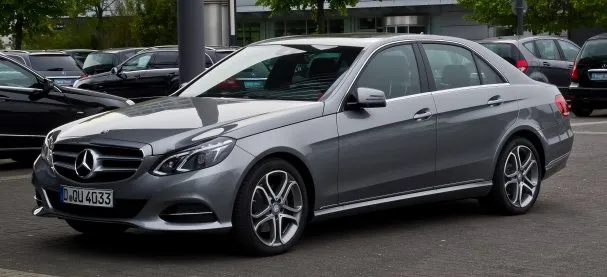
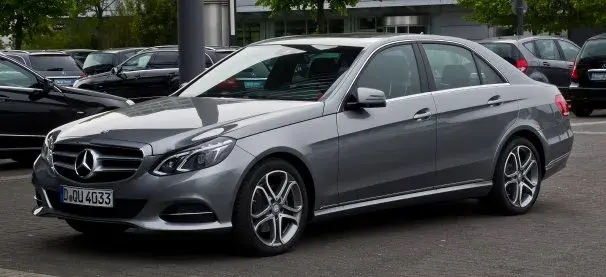
246

diff --git a/pic/ja_mb_img_e.html b/pic/ja_mb_img_e.html
@@ -773,7 +773,7 @@
 							</div>
 						</div>
 						<h5>Avantgarde</h5>
-						<a href="full/e/w212_f2_ava.jpg"><img loading="lazy" src="style/e/w212_f2_ava.webp" alt="メルセデス,W212,Eクラス,Avantgarde,フロント" width="607" height="277"></a>
+						<a href="full/e/w212_f2_ava.jpg"><img loading="lazy" src="style/e/w212_f2_ava.webp" alt="メルセデス,W212,Eクラス,Avantgarde,フロント" width="606" height="277"></a>
 						<a href="full/e/w212_r2_ava.jpg"><img loading="lazy" src="style/e/w212_r2_ava.webp" alt="メルセデス,W212,Eクラス,Avantgarde,リヤ" width="599" height="277"></a><br>
 						<a href="full/e/w212_d2_ava.jpg"><img loading="lazy" src="style/e/w212_d2_ava.webp" alt="メルセデス,W212,Eクラス,Avantgarde,ダッシュボード" width="1210" height="756"></a><br>
 						<a href="full/e/w212_i.jpg"><img loading="lazy" src="style/e/w212_i.webp" alt="メルセデス,W212,Eクラス,内装" width="800" height="600"></a>

diff --git a/pic/mb_img_e.html b/pic/mb_img_e.html
@@ -773,7 +773,7 @@
 							</div>
 						</div>
 						<h5>Avantgarde</h5>
-						<a href="full/e/w212_f2_ava.jpg"><img loading="lazy" src="style/e/w212_f2_ava.webp" alt="Mercedes,W212,E-klasse,Avantgarde,Frontansicht" width="607" height="277"></a>
+						<a href="full/e/w212_f2_ava.jpg"><img loading="lazy" src="style/e/w212_f2_ava.webp" alt="Mercedes,W212,E-klasse,Avantgarde,Frontansicht" width="606" height="277"></a>
 						<a href="full/e/w212_r2_ava.jpg"><img loading="lazy" src="style/e/w212_r2_ava.webp" alt="Mercedes,W212,E-klasse,Avantgarde,Rückansicht" width="599" height="277"></a><br>
 						<a href="full/e/w212_d2_ava.jpg"><img loading="lazy" src="style/e/w212_d2_ava.webp" alt="Mercedes,W212,E-klasse,Avantgarde,Instrumententafel" width="1210" height="756"></a><br>
 						<a href="full/e/w212_i.jpg"><img loading="lazy" src="style/e/w212_i.webp" alt="Mercedes,W212,E,Innenansicht" width="800" height="600"></a>

diff --git a/pic/en_mb_img_e.html b/pic/en_mb_img_e.html
@@ -773,7 +773,7 @@
 							</div>
 						</div>
 						<h5>Avantgarde</h5>
-						<a href="full/e/w212_f2_ava.jpg"><img loading="lazy" src="style/e/w212_f2_ava.webp" alt="Mercedes,W212,E-class,Avantgarde,Front view" width="607" height="277"></a>
+						<a href="full/e/w212_f2_ava.jpg"><img loading="lazy" src="style/e/w212_f2_ava.webp" alt="Mercedes,W212,E-class,Avantgarde,Front view" width="606" height="277"></a>
 						<a href="full/e/w212_r2_ava.jpg"><img loading="lazy" src="style/e/w212_r2_ava.webp" alt="Mercedes,W212,E-class,Avantgarde,Rear view" width="599" height="277"></a><br>
 						<a href="full/e/w212_d2_ava.jpg"><img loading="lazy" src="style/e/w212_d2_ava.webp" alt="Mercedes,W212,E-class,Avantgarde,Dashboard" width="1210" height="756"></a><br>
 						<a href="full/e/w212_i.jpg"><img loading="lazy" src="style/e/w212_i.webp" alt="Mercedes,W212,E,Interior" width="800" height="600"></a>
